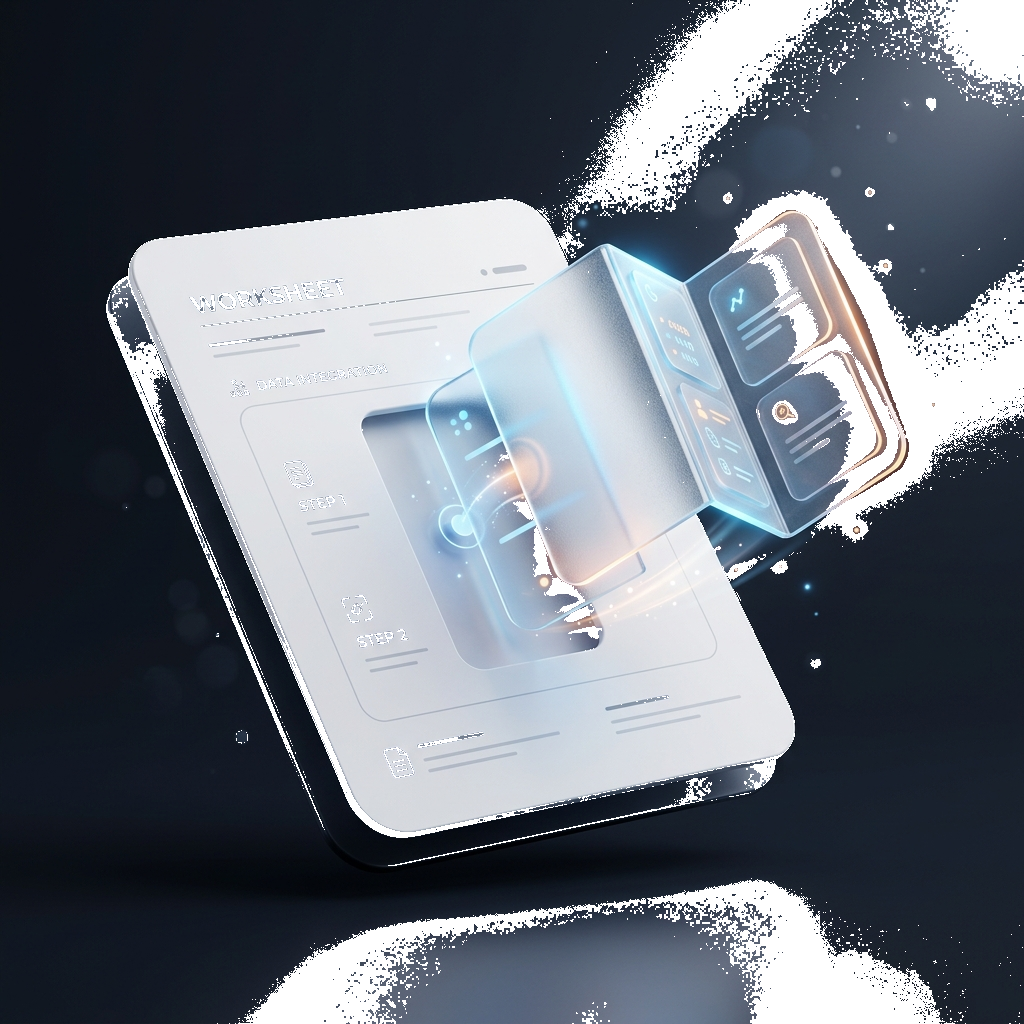
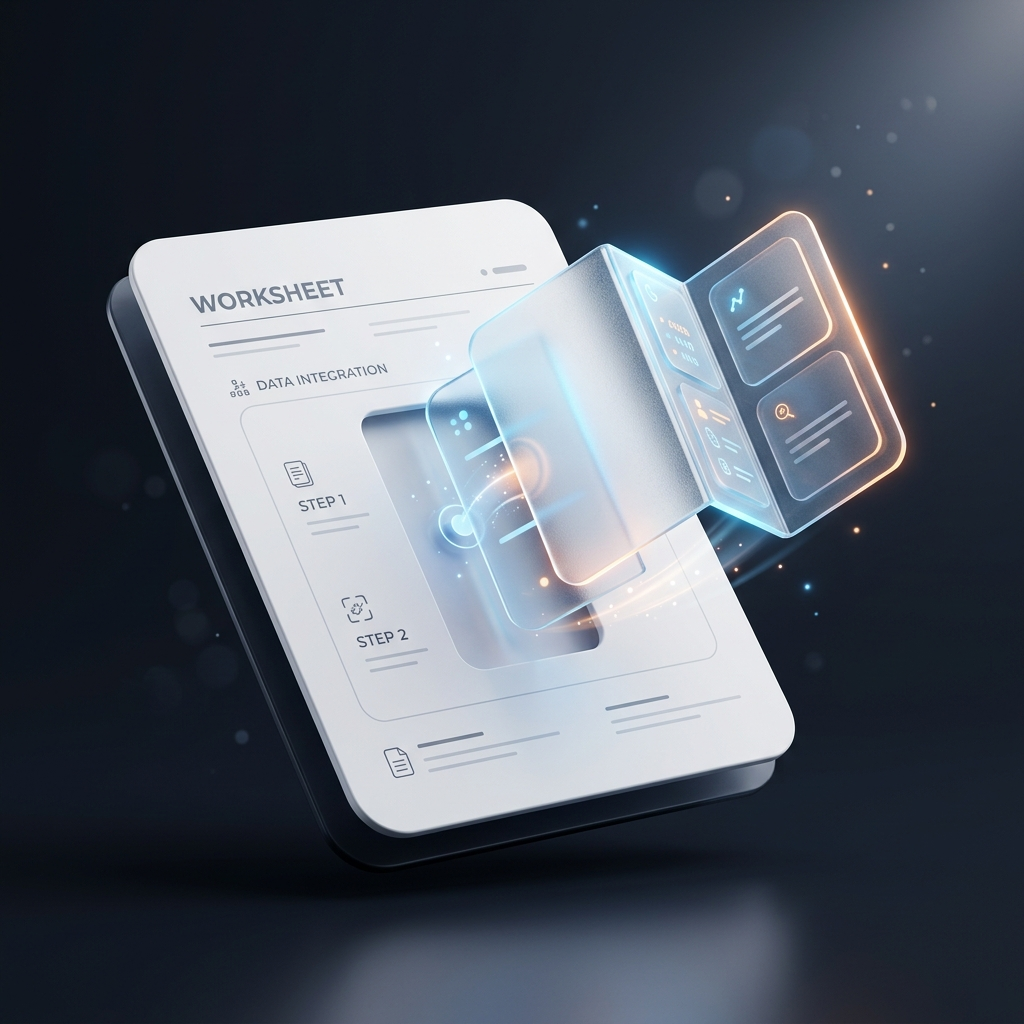
feat: generate 3D bright white bento assets for light mode and dark studio assets for dark mode

diff --git a/src/Landing.tsx b/src/Landing.tsx
@@ -287,8 +287,8 @@ export default function Landing() {
           >
             {/* Front Content */}
             <div className="flex flex-col h-full transition-all duration-200 opacity-100 scale-100 group-hover:opacity-0 group-hover:scale-95 group-hover:pointer-events-none">
-              <div className="flex-1 rounded-[2rem] bg-slate-100/60 dark:bg-[#050505] relative overflow-hidden flex items-center justify-center p-8">
-                <img src="/assets/bento_reveal_only.png" className="w-full h-full object-contain filter drop-shadow-xl group-hover:scale-105 transition-transform duration-700 ease-[var(--ease-premium)]" />
+              <div className="flex-1 rounded-[2rem] bg-white dark:bg-[#050505] border border-slate-100 dark:border-white/5 relative overflow-hidden flex items-center justify-center p-8">
+                <img src={theme === 'light' ? '/assets/bento_light_reveal_only.png' : '/assets/bento_reveal_only.png'} className="w-full h-full object-contain filter drop-shadow-md group-hover:scale-105 transition-transform duration-700 ease-[var(--ease-premium)]" />
                 <div className="absolute bottom-4 right-4 bg-slate-800/10 dark:bg-white/10 backdrop-blur-md rounded-full p-2 animate-pulse">
                   <ArrowRight className="text-slate-800 dark:text-white" />
                 </div>
@@ -326,8 +326,8 @@ export default function Landing() {
                   <ArrowRight className="text-brand animate-pulse shrink-0" />
                 </h3>
               </div>
-              <div className="md:w-1/2 flex-1 md:h-full rounded-[2rem] bg-slate-100/60 dark:bg-[#050505] relative overflow-hidden flex items-center justify-center order-1 md:order-2 p-8">
-                <img src="/assets/bento_speed_mode.png" className="w-full h-full object-contain filter drop-shadow-xl group-hover:scale-[1.02] transition-transform duration-700 ease-[var(--ease-premium)]" />
+              <div className="md:w-1/2 flex-1 md:h-full rounded-[2rem] bg-white dark:bg-[#050505] border border-slate-100 dark:border-white/5 relative overflow-hidden flex items-center justify-center order-1 md:order-2 p-8">
+                <img src={theme === 'light' ? '/assets/bento_light_speed_mode.png' : '/assets/bento_speed_mode.png'} className="w-full h-full object-contain filter drop-shadow-md group-hover:scale-[1.02] transition-transform duration-700 ease-[var(--ease-premium)]" />
               </div>
             </div>
 
@@ -348,8 +348,8 @@ export default function Landing() {
           >
             {/* Front Content */}
             <div className="flex flex-col h-full transition-all duration-200 opacity-100 scale-100 group-hover:opacity-0 group-hover:scale-95 group-hover:pointer-events-none">
-              <div className="flex-1 rounded-[2rem] bg-slate-100/60 dark:bg-[#050505] relative overflow-hidden flex items-center justify-center p-8">
-                <img src="/assets/onboarding_icon_dashboard_1782545238800.png" className="w-full h-full object-contain filter drop-shadow-xl group-hover:scale-105 transition-transform duration-700 ease-[var(--ease-premium)]" />
+              <div className="flex-1 rounded-[2rem] bg-white dark:bg-[#050505] border border-slate-100 dark:border-white/5 relative overflow-hidden flex items-center justify-center p-8">
+                <img src={theme === 'light' ? '/assets/bento_light_dashboard.png' : '/assets/onboarding_icon_dashboard_1782545238800.png'} className="w-full h-full object-contain filter drop-shadow-md group-hover:scale-105 transition-transform duration-700 ease-[var(--ease-premium)]" />
                 <div className="absolute bottom-4 right-4 bg-slate-800/10 dark:bg-white/10 backdrop-blur-md rounded-full p-2 animate-pulse">
                   <ArrowRight className="text-slate-800 dark:text-white" />
                 </div>
@@ -381,8 +381,8 @@ export default function Landing() {
           >
             {/* Front Content */}
             <div className="flex flex-col h-full transition-all duration-200 opacity-100 scale-100 group-hover:opacity-0 group-hover:scale-95 group-hover:pointer-events-none">
-              <div className="flex-1 rounded-[2rem] bg-slate-100/60 dark:bg-[#050505] relative overflow-hidden flex items-center justify-center p-8">
-                <img src="/assets/onboarding_icon_grading_status.png" className="w-full h-full object-contain filter drop-shadow-xl group-hover:scale-105 transition-transform duration-700 ease-[var(--ease-premium)]" />
+              <div className="flex-1 rounded-[2rem] bg-white dark:bg-[#050505] border border-slate-100 dark:border-white/5 relative overflow-hidden flex items-center justify-center p-8">
+                <img src={theme === 'light' ? '/assets/bento_light_grading_status.png' : '/assets/onboarding_icon_grading_status.png'} className="w-full h-full object-contain filter drop-shadow-md group-hover:scale-105 transition-transform duration-700 ease-[var(--ease-premium)]" />
                 <div className="absolute bottom-4 right-4 bg-slate-800/10 dark:bg-white/10 backdrop-blur-md rounded-full p-2 animate-pulse">
                   <ArrowRight className="text-slate-800 dark:text-white" />
                 </div>

diff --git a/src/pages/SchoolsLandingPage.tsx b/src/pages/SchoolsLandingPage.tsx
@@ -199,8 +199,8 @@ const SchoolsLandingPage: React.FC<Props> = ({ isNight, setIsNight }) => {
                     : "Seed each class's active spelling vocabulary lists, target phonics, and reading passages. Our grading engine aligns its OCR check straight to your weekly textbook targets."}
                 </p>
               </div>
-              <div className={`w-full md:w-48 lg:w-56 flex-shrink-0 rounded-2xl overflow-hidden p-2 transition-all duration-300 ${isNight ? 'bg-zinc-950/60 border border-white/10' : 'bg-slate-100/80 border border-slate-200/80'}`}>
-                <img src="/assets/schools/schools_bento_curriculum.png" alt="Curriculum seeding interface" className="w-full h-auto object-contain filter drop-shadow-md" loading="lazy" />
+              <div className={`w-full md:w-48 lg:w-56 flex-shrink-0 rounded-2xl overflow-hidden p-2 transition-all duration-300 ${isNight ? 'bg-zinc-950/80 border border-white/10' : 'bg-white border border-zinc-200/80 shadow-sm'}`}>
+                <img src={isNight ? "/assets/schools/schools_bento_curriculum.png" : "/assets/schools/schools_bento_curriculum_light.png"} alt="Curriculum seeding interface" className="w-full h-auto object-contain filter drop-shadow-md" loading="lazy" />
               </div>
             </div>
 
@@ -230,8 +230,8 @@ const SchoolsLandingPage: React.FC<Props> = ({ isNight, setIsNight }) => {
               </p>
             </div>
 
-            <div className={`mt-4 rounded-2xl overflow-hidden p-2 flex justify-center transition-all duration-300 ${isNight ? 'bg-zinc-950/60 border border-white/10' : 'bg-slate-100/80 border border-slate-200/80'}`}>
-              <img src="/assets/schools/schools_bento_join_code.png" alt="Class join code entry UI" className="w-full max-w-[240px] h-auto object-contain filter drop-shadow-md" loading="lazy" />
+            <div className={`mt-4 rounded-2xl overflow-hidden p-2 flex justify-center transition-all duration-300 ${isNight ? 'bg-zinc-950/80 border border-white/10' : 'bg-white border border-zinc-200/80 shadow-sm'}`}>
+              <img src={isNight ? "/assets/schools/schools_bento_join_code.png" : "/assets/schools/schools_bento_join_code_light.png"} alt="Class join code entry UI" className="w-full max-w-[240px] h-auto object-contain filter drop-shadow-md" loading="lazy" />
             </div>
           </div>
 
@@ -255,8 +255,8 @@ const SchoolsLandingPage: React.FC<Props> = ({ isNight, setIsNight }) => {
               </p>
             </div>
 
-            <div className={`mt-4 rounded-2xl overflow-hidden p-2 flex justify-center transition-all duration-300 ${isNight ? 'bg-zinc-950/60 border border-white/10' : 'bg-slate-100/80 border border-slate-200/80'}`}>
-              <img src="/assets/schools/schools_bento_diagnostics.png" alt="Classroom diagnostics dashboard" className="w-full max-w-[240px] h-auto object-contain filter drop-shadow-md" loading="lazy" />
+            <div className={`mt-4 rounded-2xl overflow-hidden p-2 flex justify-center transition-all duration-300 ${isNight ? 'bg-zinc-950/80 border border-white/10' : 'bg-white border border-zinc-200/80 shadow-sm'}`}>
+              <img src={isNight ? "/assets/schools/schools_bento_diagnostics.png" : "/assets/schools/schools_bento_diagnostics_light.png"} alt="Classroom diagnostics dashboard" className="w-full max-w-[240px] h-auto object-contain filter drop-shadow-md" loading="lazy" />
             </div>
           </div>
 
@@ -285,8 +285,8 @@ const SchoolsLandingPage: React.FC<Props> = ({ isNight, setIsNight }) => {
                   <span>{isKo ? '밀착 학부모 케어로 재원율 증가' : 'Increase student retention with digital care'}</span>
                 </div>
               </div>
-              <div className={`w-full md:w-44 lg:w-52 flex-shrink-0 rounded-2xl overflow-hidden p-2 transition-all duration-300 ${isNight ? 'bg-zinc-950/60 border border-white/10' : 'bg-slate-100/80 border border-slate-200/80'}`}>
-                <img src="/assets/schools/schools_bento_parent_care.png" alt="Parent homework report UI" className="w-full h-auto object-contain filter drop-shadow-md" loading="lazy" />
+              <div className={`w-full md:w-44 lg:w-52 flex-shrink-0 rounded-2xl overflow-hidden p-2 transition-all duration-300 ${isNight ? 'bg-zinc-950/80 border border-white/10' : 'bg-white border border-zinc-200/80 shadow-sm'}`}>
+                <img src={isNight ? "/assets/schools/schools_bento_parent_care.png" : "/assets/schools/schools_bento_parent_care_light.png"} alt="Parent homework report UI" className="w-full h-auto object-contain filter drop-shadow-md" loading="lazy" />
               </div>
             </div>
           </div>
